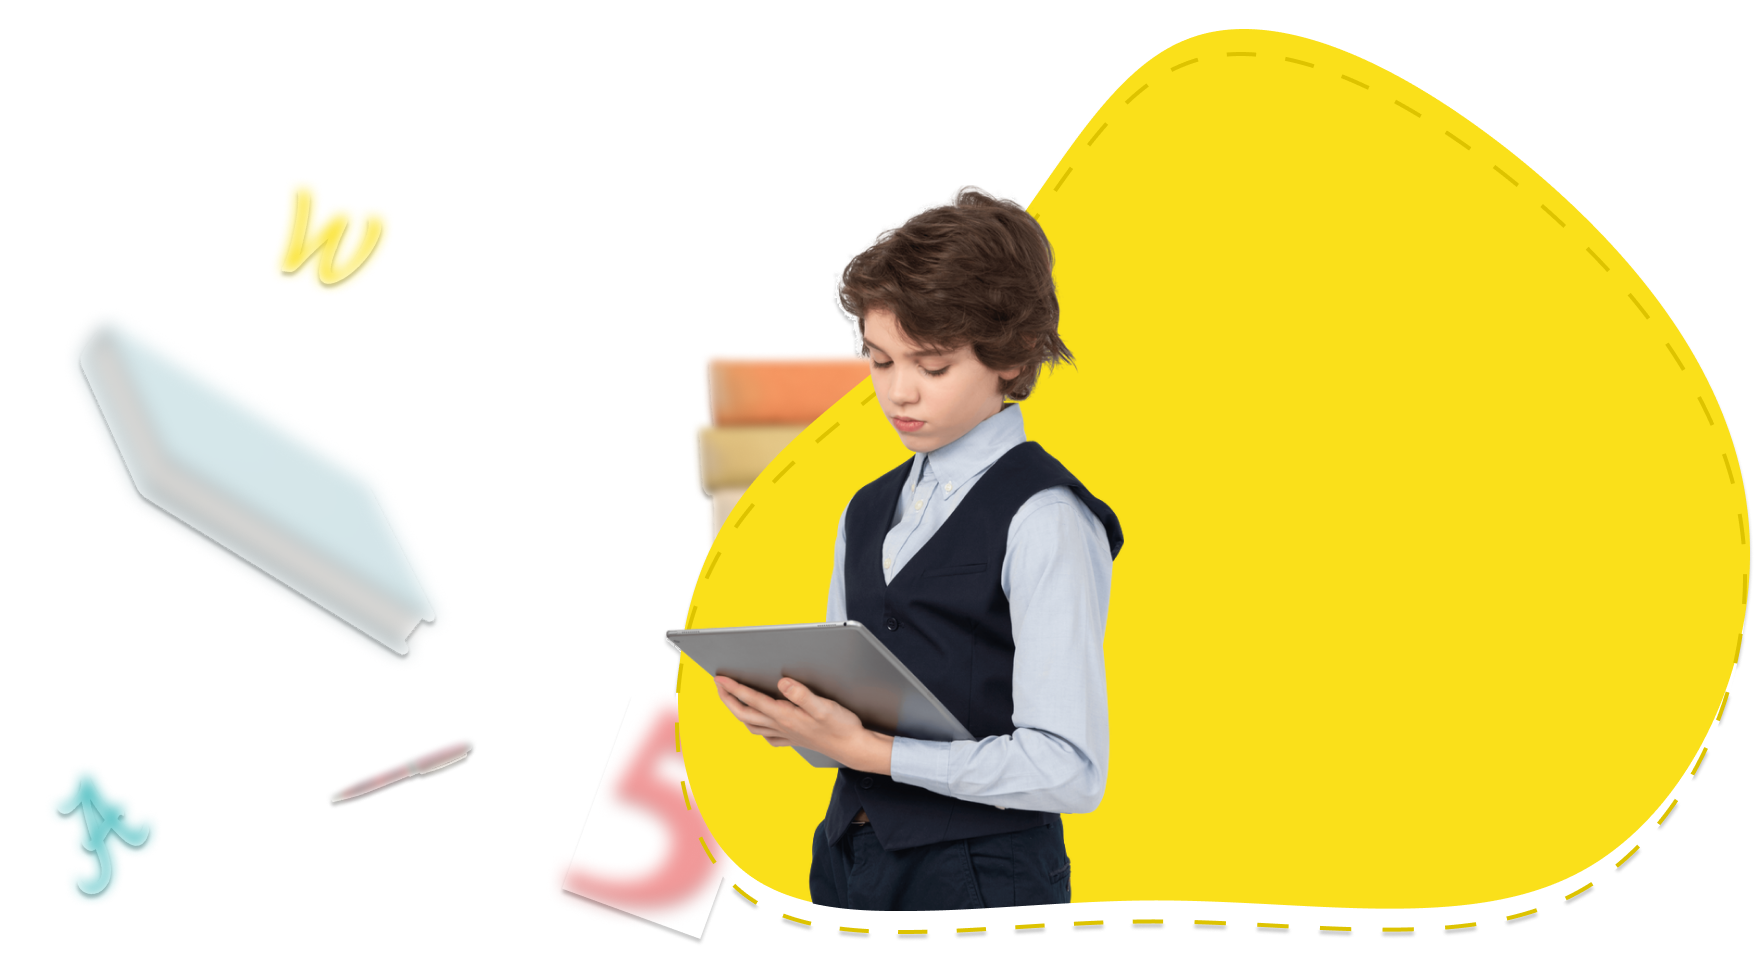
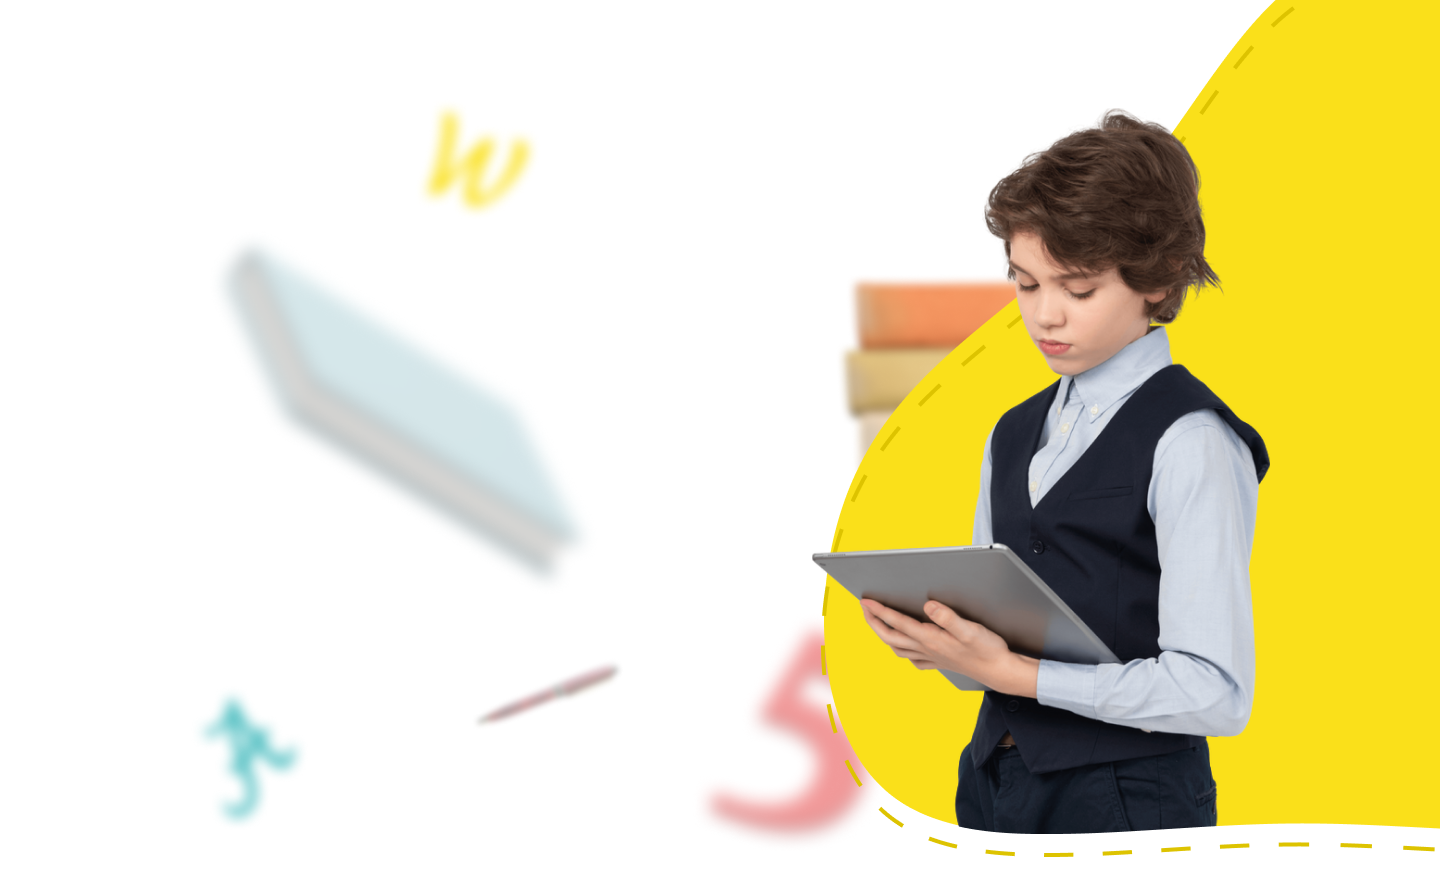
menu

diff --git a/docs/index.html b/docs/index.html
@@ -1,1 +1,1 @@
-<!DOCTYPE html><html lang="en"><head><meta charset="UTF-8"><meta http-equiv="X-UA-Compatible" content="IE=edge"><meta name="viewport" content="width=device-width,initial-scale=1"><link rel="preconnect" href="https://fonts.googleapis.com"><link rel="preconnect" href="https://fonts.gstatic.com" crossorigin><link href="https://fonts.googleapis.com/css2?family=Commissioner:wght@300;400;500;600;700&family=Montserrat:ital,wght@0,400;1,100&display=swap" rel="stylesheet"><link rel="stylesheet" href="./css/style.min.css"><title>School</title></head><header><div class="container"></div></header><body></body></html>
+<!DOCTYPE html><html lang="en"><head><meta charset="UTF-8"><meta http-equiv="X-UA-Compatible" content="IE=edge"><meta name="viewport" content="width=device-width,initial-scale=1"><link rel="preconnect" href="https://fonts.googleapis.com"><link rel="preconnect" href="https://fonts.gstatic.com" crossorigin><link href="https://fonts.googleapis.com/css2?family=Commissioner:wght@300;400;500;600;700&family=Montserrat:ital,wght@0,400;1,100&display=swap" rel="stylesheet"><link rel="stylesheet" href="./css/style.min.css"><title>School</title></head><header><div class="container"><menu><div class="icon"><img src="./icons/logo.png" alt="logo"></div><ul class="link"><li>О нас</li><li>Каталог</li><li>Сертификаты</li><li>Отзывы</li><li>Контакты</li></ul><div class="phone"><img class="phone__icons" src="./icons/phone.svg" alt="phone"><div class="phone__number">8 (771) 145-98-26</div></div></menu></div></header><body></body></html>

diff --git a/docs/css/style.min.css b/docs/css/style.min.css
@@ -1,1 +1,1 @@
-*{font-family:Commissioner,sans-serif;font-family:Montserrat,sans-serif;-webkit-box-sizing:border-box;box-sizing:border-box;padding:0;margin:0}.container{max-width:1300px}header{height:100vh;position:relative;background:url(../../img/Group.png);background-repeat:no-repeat;background-position:80%;background-size:cover}
+*{font-family:Commissioner,sans-serif;-webkit-box-sizing:border-box;box-sizing:border-box;padding:0;margin:0}.container{max-width:1300px;margin:0 auto}header{height:100vh;position:relative;background:url(../../img/titul.png);background-repeat:no-repeat;background-position:80%;background-size:cover}header menu{padding-top:20px;display:-webkit-box;display:-ms-flexbox;display:flex;-webkit-box-pack:justify;-ms-flex-pack:justify;justify-content:space-between;-webkit-box-align:center;-ms-flex-align:center;align-items:center}header menu ul{display:-webkit-box;display:-ms-flexbox;display:flex;-webkit-box-pack:justify;-ms-flex-pack:justify;justify-content:space-between;gap:40px}header menu ul li{list-style-type:none;font-weight:500;font-size:16px;line-height:20px;color:#000}header menu .phone{display:-webkit-box;display:-ms-flexbox;display:flex;-webkit-box-pack:center;-ms-flex-pack:center;justify-content:center;-webkit-box-align:center;-ms-flex-align:center;align-items:center;gap:8px}

diff --git a/src/sass/block/_header.scss b/src/sass/block/_header.scss
@@ -1,8 +1,36 @@
 header {
     height: 100vh;
     position: relative;
-    background: url('../../img/Group.png');
+    background: url('../../img/titul.png');
     background-repeat: no-repeat;
-    background-position: 80% ;
-    background-size: cover; 
+    background-position: 80%;
+    background-size: cover;
+
+    menu {
+        padding-top: 20px;
+        display: flex;
+        justify-content: space-between;
+        align-items: center;
+
+        ul {
+            display: flex;
+            justify-content: space-between;
+            gap: 40px;
+
+            li {
+                list-style-type: none;
+                font-weight: 500;
+                font-size: 16px;
+                line-height: 20px;
+                color: #000000;
+            }
+        }
+
+        .phone {
+            display: flex;
+            justify-content: center;
+            align-items: center;
+            gap: 8px;
+        }
+    }
 }

diff --git a/src/index.html b/src/index.html
@@ -16,7 +16,22 @@
 </head>
     <header>
         <div class="container">
-
+            <menu>
+                <div class="icon">
+                    <img src="./icons/logo.png" alt="logo">
+                </div>
+                <ul class="link">
+                    <li>О нас</li>
+                    <li>Каталог</li>
+                    <li>Сертификаты</li>
+                    <li>Отзывы</li>
+                    <li>Контакты</li>
+                </ul>
+                <div class="phone">
+                    <img class="phone__icons" src="./icons/phone.svg" alt="phone">
+                    <div class="phone__number">8 (771) 145-98-26</div>
+                </div>
+            </menu>
 
         </div>
     </header>

diff --git a/src/sass/style.scss b/src/sass/style.scss
@@ -1,6 +1,5 @@
 * {
     font-family: 'Commissioner', sans-serif;
-    font-family: 'Montserrat', sans-serif;
     box-sizing: border-box;
     padding: 0;
     margin: 0;
@@ -8,7 +7,7 @@
 
 .container {
     max-width: 1300px;
-    
+    margin: 0 auto;
 }
 
 @import 'block/header';
